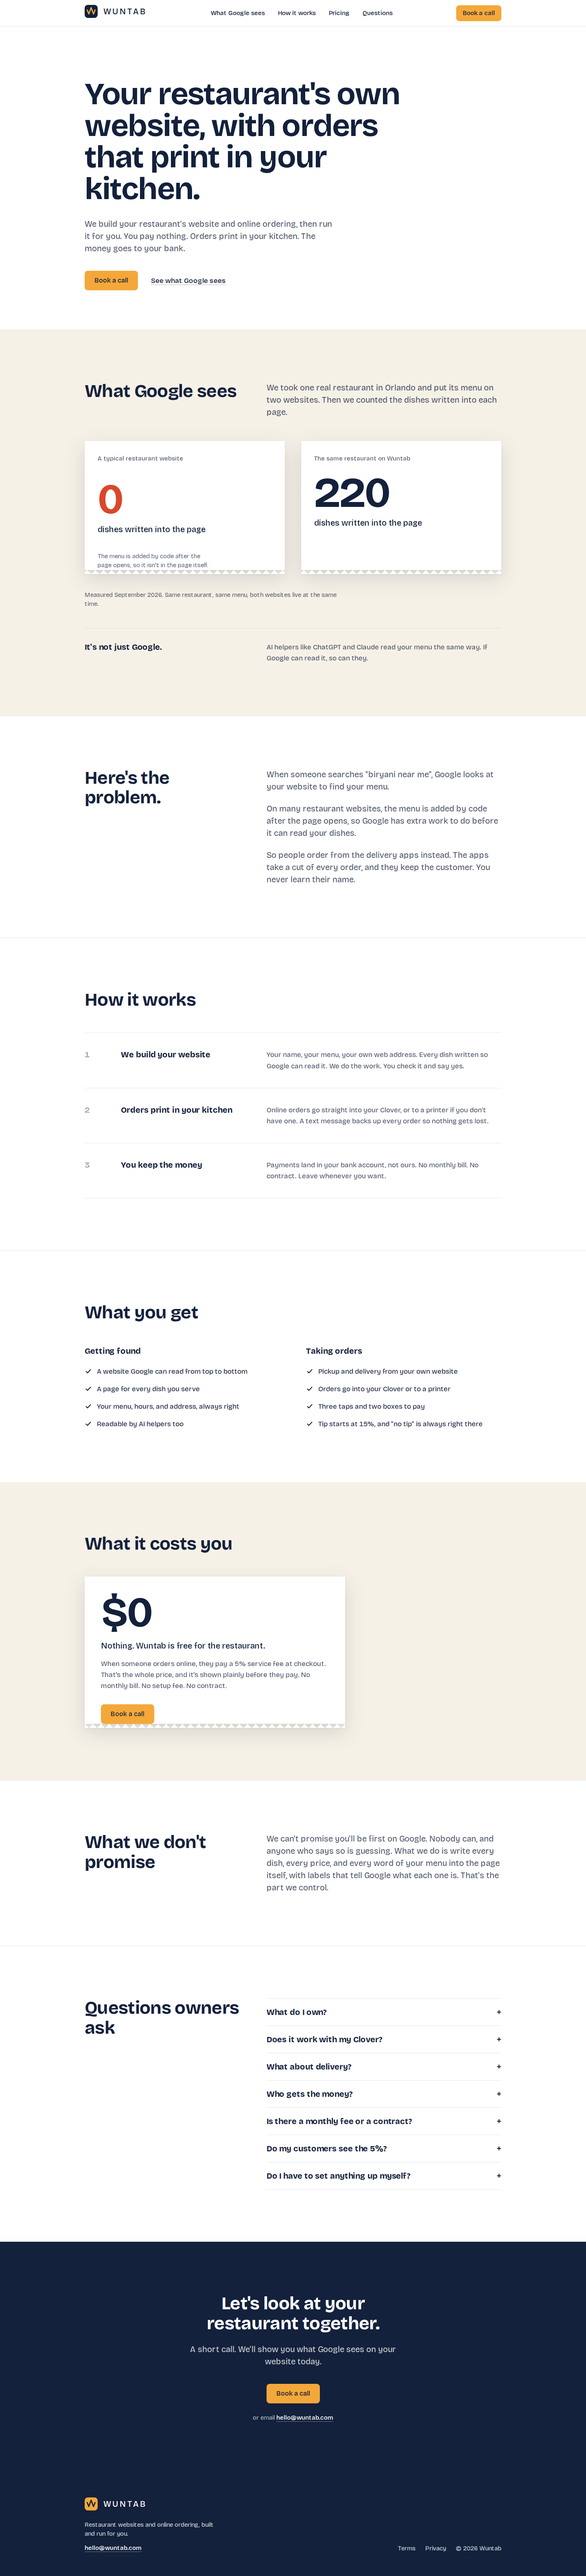
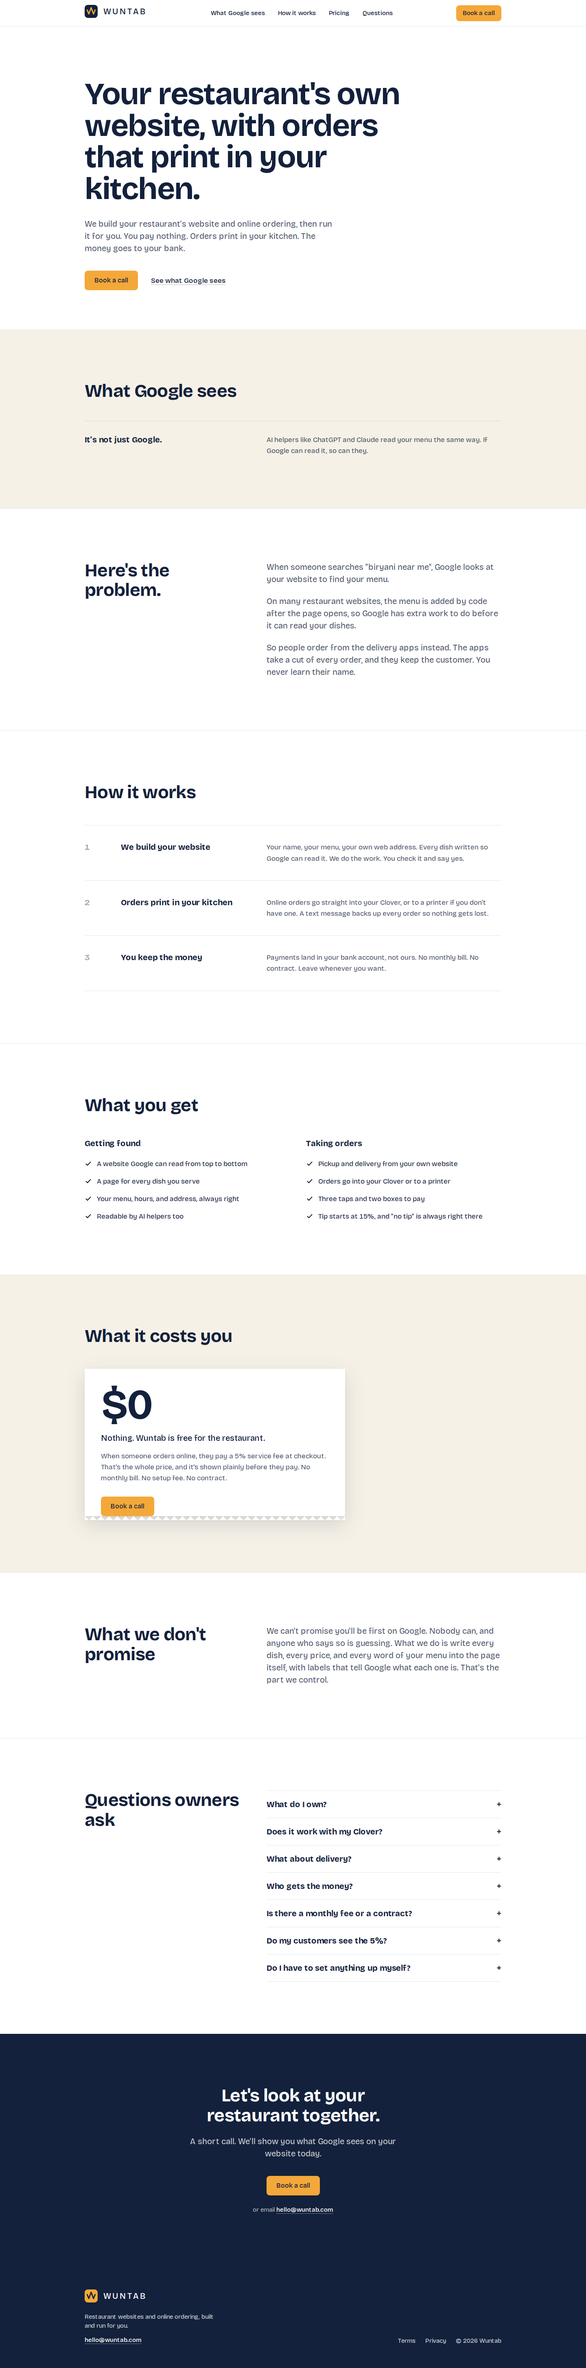
Take the 220 vs 0 proof tickets off the homepage.
The measurement method behind 220 vs 0 is not documented anywhere in the
repo, and an earlier commit called the number illustrative. On the owner's
call the tickets come off with their intro and footnote, and nothing
replaces them. The ticket component and its print animation CSS are
removed with them, and a test keeps the figures off the page until a
re-measurement with a committed method brings them back.

Before/after screenshots and the redirect checks are refreshed.

Claude-Session: https://claude.ai/code/session_01UZB8hyaQxnMWnWtoGGmC5B

diff --git a/tests/marketing.spec.ts b/tests/marketing.spec.ts
@@ -2,19 +2,13 @@ import { expect, test } from "@playwright/test";
 import { copy } from "../src/lib/copy";
 import { demoHref } from "../src/lib/site";
 
-test("first-response HTML contains the headline and the proof tickets", async ({
+test("first-response HTML contains the headline, the AI line and the pricing", async ({
   request,
 }) => {
   const response = await request.get("/");
   expect(response.status()).toBe(200);
   const html = await response.text();
   expect(html).toContain(copy.hero.headline);
-  expect(html).toContain(copy.proof.left.title);
-  expect(html).toContain(copy.proof.right.title);
-  for (const dish of copy.proof.right.dishes) {
-    expect(html).toContain(dish);
-  }
-  expect(html).toContain(String(copy.proof.right.total));
   expect(html).toContain(copy.proof.aiLine);
   expect(html).toContain(copy.pricing.body);
 });
@@ -82,9 +76,20 @@ test("/platform-terms 301s to /terms and /accessibility is no longer redirected"
   expect(accessibility.status()).toBe(404);
 });
 
-test("the proof ticket prints no dish list while none are approved", async ({ request }) => {
-  const html = await (await request.get("/")).text();
-  expect(copy.proof.right.dishes).toHaveLength(0);
-  expect(html).not.toContain("and 208 more");
-  expect(html).not.toContain("Samosa chaat");
+test("the unsourced 220 vs 0 proof tickets stay off the page", async ({ page }) => {
+  // Withdrawn 2026-10-02: the measurement method is not documented anywhere.
+  // They come back only with a re-measurement whose method is committed.
+  await page.emulateMedia({ reducedMotion: "reduce" });
+  await page.goto("/");
+  const text = await page.locator("body").innerText();
+  expect(text).not.toMatch(/\b220\b/);
+  for (const gone of [
+    "dishes written into the page",
+    "A typical restaurant website",
+    "Measured September 2026",
+    "and 208 more",
+    "Samosa chaat",
+  ]) {
+    expect(text, gone).not.toContain(gone);
+  }
 });

diff --git a/src/app/page.tsx b/src/app/page.tsx
@@ -2,7 +2,6 @@ import type { Metadata } from "next";
 import { Container } from "@/components/container";
 import { CtaLink, TextLink } from "@/components/cta-link";
 import { JsonLd } from "@/components/json-ld";
-import { ProofTickets } from "@/components/proof-tickets";
 import { copy } from "@/lib/copy";
 import { faqSchema } from "@/lib/schema";
 import { demoHref, site } from "@/lib/site";
@@ -54,14 +53,7 @@ export default function HomePage() {
         <Container className="py-20 lg:py-32">
           <div className="grid gap-6 lg:grid-cols-12 lg:gap-12">
             <h2 className="text-h2 lg:col-span-5">{copy.proof.heading}</h2>
-            <p className="max-w-[48ch] text-lead text-ink/80 lg:col-span-7">
-              {copy.proof.sub}
-            </p>
           </div>
-          <div className="mt-14">
-            <ProofTickets left={copy.proof.left} right={copy.proof.right} />
-          </div>
-          <p className="mt-10 max-w-[62ch] text-small text-ink/72">{copy.proof.footnote}</p>
           <div className="mt-12 grid gap-2 border-t border-ink/10 pt-8 lg:grid-cols-12 lg:gap-12">
             <h3 className="text-h3 lg:col-span-5">{copy.proof.aiLine}</h3>
             <p className="max-w-[62ch] text-body text-ink/80 lg:col-span-7">

diff --git a/src/lib/copy.ts b/src/lib/copy.ts
@@ -12,23 +12,6 @@ export const copy = {
   },
   proof: {
     heading: "What Google sees",
-    sub: "We took one real restaurant in Orlando and put its menu on two websites. Then we counted the dishes written into each page.",
-    left: {
-      title: "A typical restaurant website",
-      count: "0",
-      label: "dishes written into the page",
-      note: "The menu is added by code after the page opens, so it isn't in the page itself.",
-    },
-    right: {
-      title: "The same restaurant on Wuntab",
-      // No dish names until real ones from the measured menu are approved.
-      // The ticket shows the count alone while this list is empty.
-      dishes: [],
-      total: 220,
-      label: "dishes written into the page",
-    },
-    footnote:
-      "Measured September 2026. Same restaurant, same menu, both websites live at the same time.",
     aiLine: "It's not just Google.",
     aiBody:
       "AI helpers like ChatGPT and Claude read your menu the same way. If Google can read it, so can they.",

diff --git a/src/app/globals.css b/src/app/globals.css
@@ -115,29 +115,6 @@ body {
     drop-shadow(0 16px 24px rgba(19, 33, 60, 0.14));
 }
 
-/* Ticket printing: lines are visible in the first HTML; JS hides then reveals. */
-.print-line {
-  transition:
-    opacity 260ms ease-out,
-    transform 260ms ease-out;
-}
-
-[data-armed="true"] .print-line {
-  opacity: 0;
-  transform: translateY(4px);
-}
-
-[data-armed="true"][data-printed="true"] .print-line {
-  opacity: 1;
-  transform: none;
-}
-
-@media (prefers-reduced-motion: reduce) {
-  .print-line {
-    transition: none;
-  }
-}
-
 summary {
   list-style: none;
 }

diff --git a/COPY.md b/COPY.md
@@ -11,17 +11,9 @@ Voice and number rules: `.claude/skills/wuntab-design/SKILL.md` §8 and §11.
 
 **Button:** Book a call · **Link:** See what Google sees
 
-## What Google sees (proof tickets)
+## What Google sees
 
-**Sub:** We took one real restaurant in Orlando and put its menu on two websites. Then we counted the dishes written into each page.
-
-**Left ticket:** A typical restaurant website · **0** dishes written into the page · The menu is added by code after the page opens, so it isn't in the page itself.
-
-**Right ticket:** The same restaurant on Wuntab · **220** dishes written into the page
-
-> The dish list is off the page until real names from the measured menu are approved. With an empty list the ticket shows the count alone.
-
-**Footnote:** Measured September 2026. Same restaurant, same menu, both websites live at the same time.
+The 220 vs 0 proof tickets, their intro and their "Measured September 2026" footnote are off the page (2026-10-02). The measurement method is not documented anywhere in the repo, so nothing replaces them until a re-measurement with a committed method.
 
 **AI line:** It's not just Google. AI helpers like ChatGPT and Claude read your menu the same way. If Google can read it, so can they.
 
